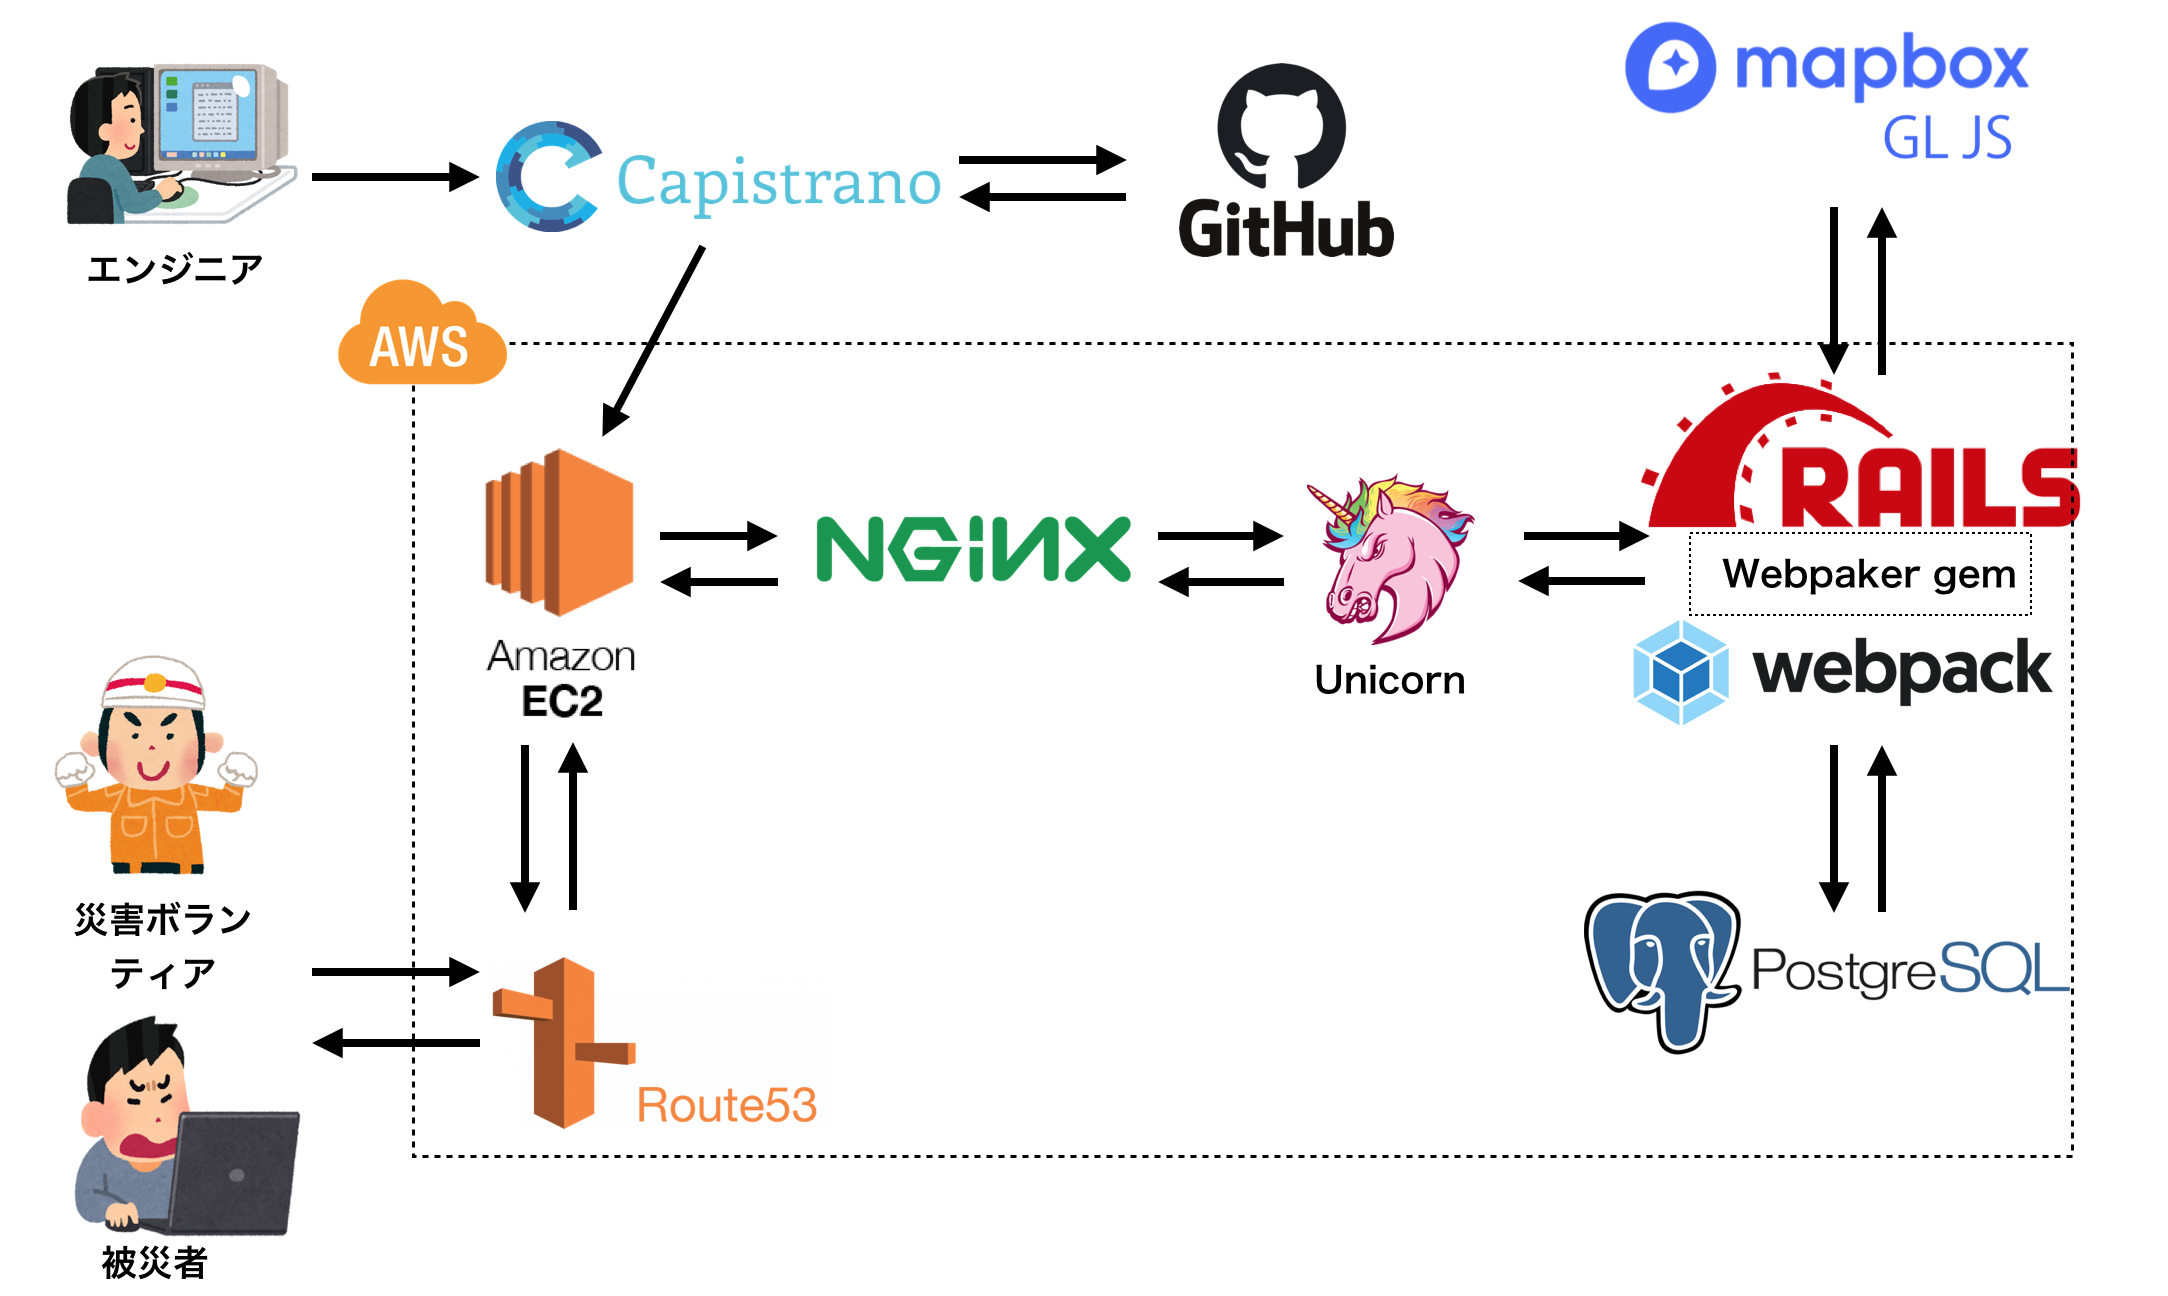
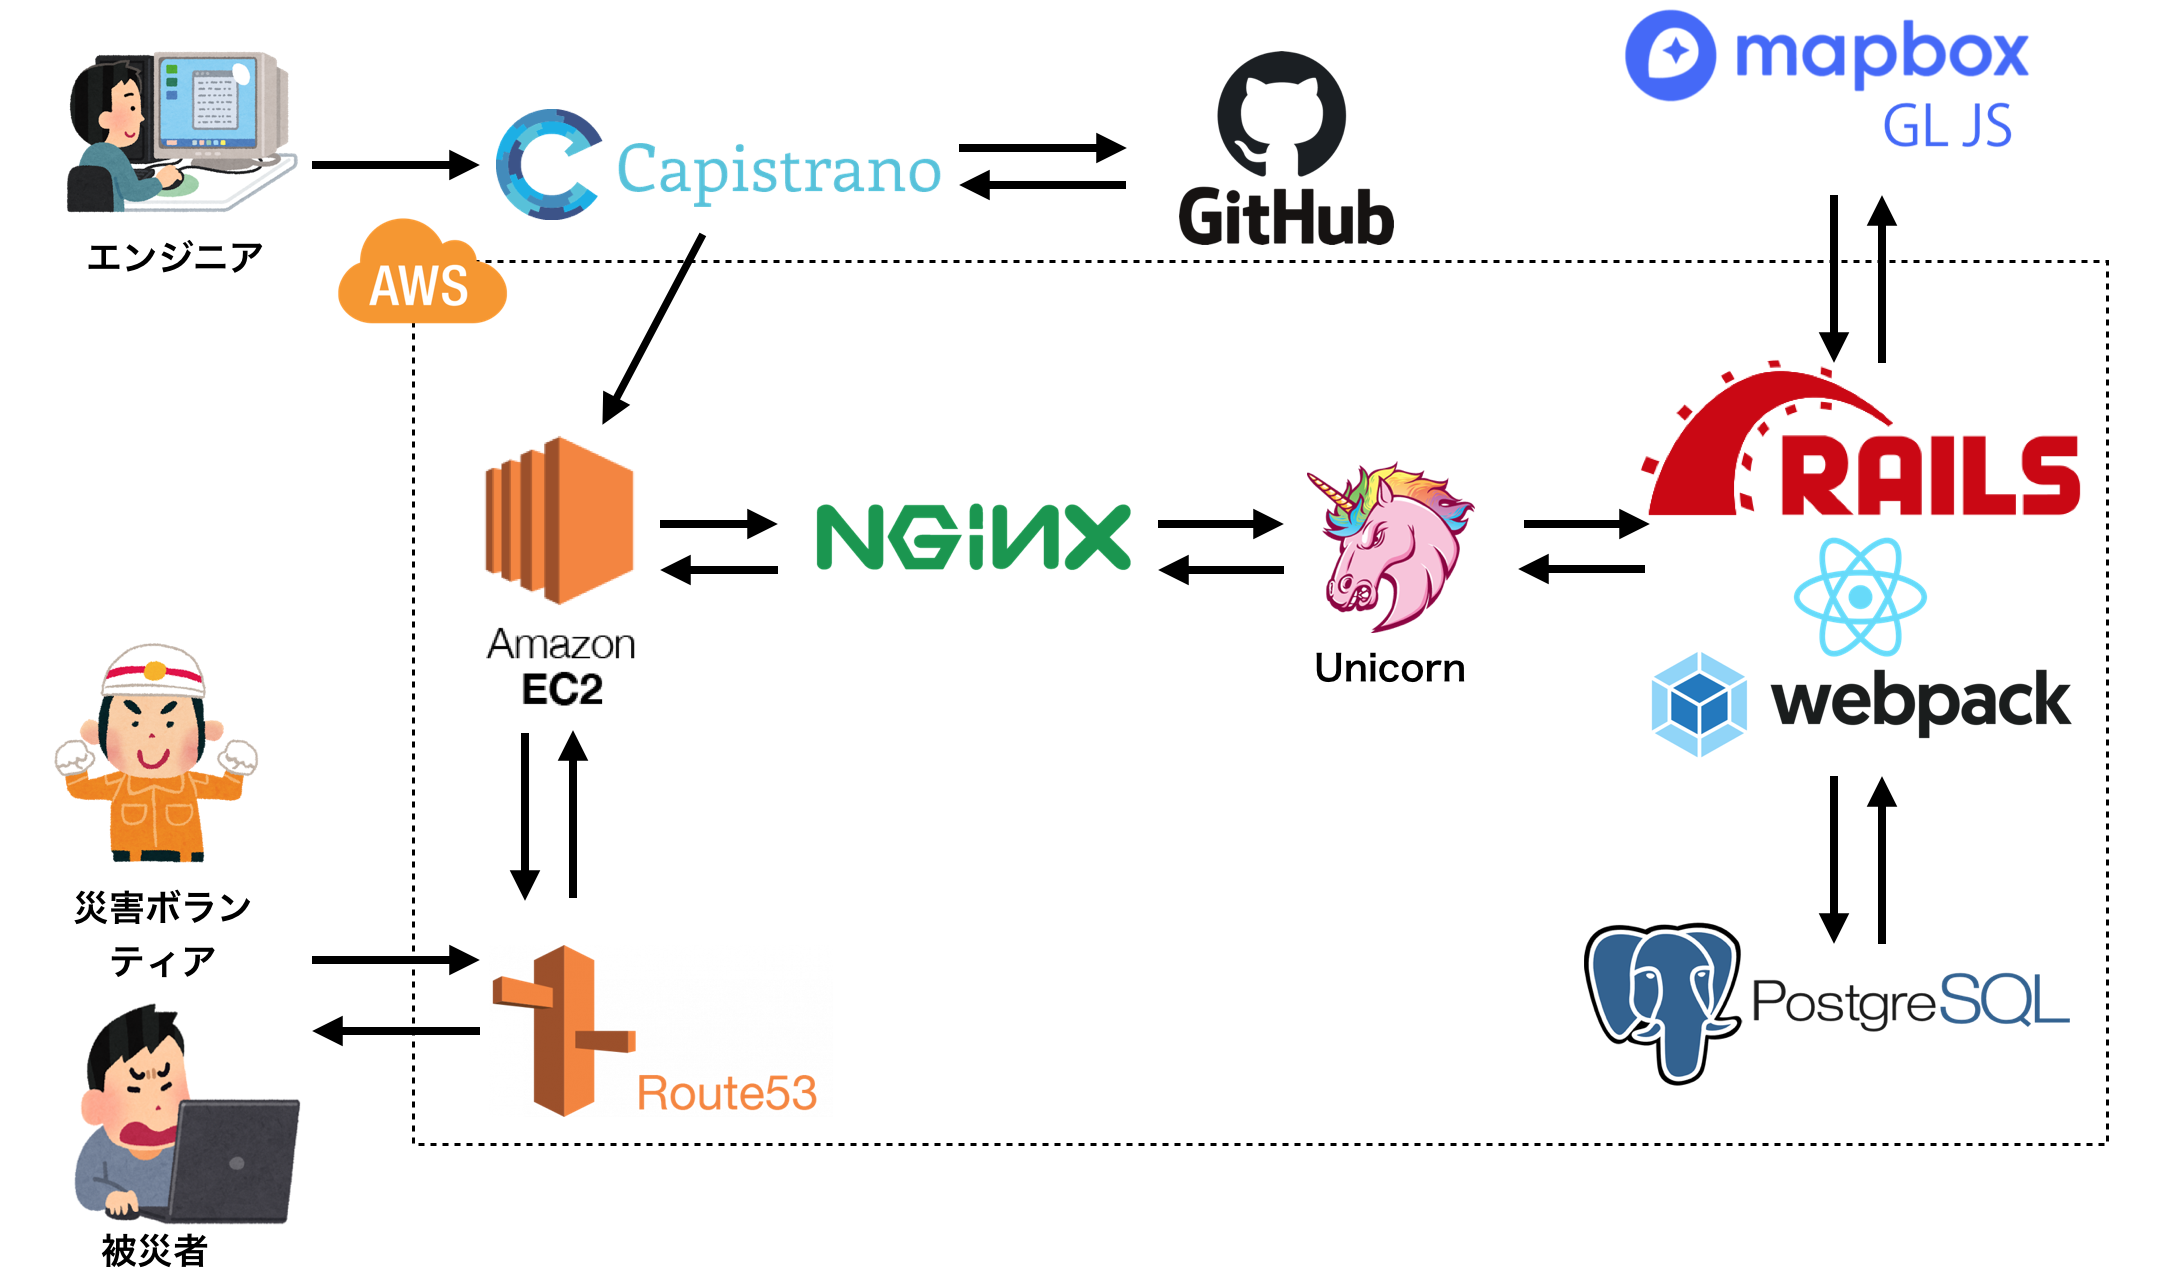
アプリ説明画面実装

diff --git a/app/javascript/plugins/App.js b/app/javascript/plugins/App.js
@@ -1,0 +1,69 @@
+import React, { Component } from "react";
+import Modal from "./Modal.js";
+import picture from "../../../app/assets/images/disaster.png"
+
+class App extends Component {
+  state = {
+    explication: false,
+    };
+
+  closeExplication = e => {
+    this.setState({
+      explication: false,
+    });
+  };
+
+  showExplication = e => {
+    this.setState({
+      explication: true,
+    });
+  };
+
+  render(){
+    return(
+      <div className="container">
+        <div>
+          <span
+            onClick={e => {
+            this.showExplication();
+            }}
+          >
+            <u>Saigai infoとは</u>
+          </span>
+        </div>
+        <Modal
+        explication={
+          this.state.explication
+        }
+        >
+        <div className="modal">
+          <div className="modal-container">
+            <div className="modal-header">
+              <div>
+                <img src={picture} alt="Picture" />;
+              </div>
+            </div>
+            <div className="modal-body">
+              <div>
+                <h4>Saigai infoとは、災害発生時の自治体や民間企業のライフライン支援情報、災害情報などをマップ上で共有するアプリです。<br></br>地図上の任意の地点に選んだアイコンを登録できます。<br></br>登録されたアイコンに情報を加えることができます。<br></br>マップ作成者は災害ボランティアを想定しています。</h4>
+              </div>
+            </div>
+            <div className="modal-footer">
+              <div className="btn-close-container">
+                <button
+                  className="btn-close"
+                  onClick={this.closeExplication}
+                >
+                  閉じる
+                </button>
+              </div>
+            </div>
+          </div>
+        </div>
+        </Modal>
+      </div>
+    );
+  };
+}
+
+export default App;

diff --git a/app/assets/stylesheets/components/_map.scss b/app/assets/stylesheets/components/_map.scss
@@ -327,7 +327,7 @@ transition: 0.5s;
 
   .modal {
     position: fixed;
-    z-index: 10;
+    z-index: 100;
     left: 0;
     top: 0;
     height: 100%;
@@ -336,9 +336,9 @@ transition: 0.5s;
     background-color: rgba(3, 3, 199, 0.5);
   }
   .modal-container {
+    z-index: 15;
     margin: 5% auto;
-    width: 60%;
-    animation-name: modalopen;
+    width: 70%;
     animation-duration: 1s;
     background-color: white;
     display: flex;
@@ -346,18 +346,34 @@ transition: 0.5s;
     justify-content: space-between;
     align-items: center;
     overflow: hidden;
-  }
-  
-  .modal-container h3 {
-    font-size: 1.5rem;
-    color: black;
-    letter-spacing: 4px;
+    border-radius: 8px;
   }
 
-  .main-modal-style {
+  .modal-header {
+    margin-top: 10%;
+    width: 50vw;
+    z-index: 20;
+  }
+
+  .modal-header img {
     width: 100%;
-    display: flex;
-    flex-direction: row;
-    justify-content: center;
-    align-items: center;
+    border-radius: 8px;
+  }
+  
+  .modal-body {
+    width: 50vw;
+    z-index:20;
+    color:black;
+    font-size:1.2rem;
+    background-color:lightpink;
+    padding: 0.2rem;
+    border-radius: 8px;
+  }
+
+  .modal-footer {
+    padding-bottom: 1.2rem;
+  }
+  
+  .btn-close {
+    border: 0;
   }

diff --git a/app/javascript/packs/modal.jsx b/app/javascript/packs/modal.jsx
@@ -1,26 +1,10 @@
-// Run this example by adding <%= javascript_pack_tag 'hello_react' %> to the head of your layout file,
-// like app/views/layouts/application.html.erb. All it does is render <div>Hello React</div> at the bottom
-// of the page.
-
+import App from "../plugins/App.js";
 import React from 'react'
 import ReactDOM from 'react-dom'
-import PropTypes from 'prop-types'
 
-const Hello = props => (
-  <div>Hello {props.name}!</div>
-)
-
-Hello.defaultProps = {
-  name: 'David'
+if(document.querySelector('#explication')){
+ReactDOM.render(
+  <App />,
+document.querySelector('#explication')
+);
 }
-
-Hello.propTypes = {
-  name: PropTypes.string
-}
-
-document.addEventListener('DOMContentLoaded', () => {
-  ReactDOM.render(
-    <Hello name="React" />,
-    document.body.appendChild(document.createElement('div')),
-  )
-})

diff --git a/app/javascript/plugins/Modal.js b/app/javascript/plugins/Modal.js
@@ -1,0 +1,18 @@
+import React, { Component } from "react";
+
+class Modal extends Component {
+  render() {
+    if (!this.props.explication) {
+      return null;
+    }
+
+    return (
+      <div>
+        <div>{this.props.children}
+        </div>
+      </div>
+    );
+  }
+}
+
+export default Modal;

diff --git a/README.md b/README.md
@@ -7,7 +7,7 @@
 アイコンを登録した後は、アイコンに名称をつけコメントを加えることで最新の情報を共有できます。  
 コメントにいいね機能をつけることで情報の信憑性を計ります。  
 マップ作成者が情報を管理しますが、閲覧者も自由にアイコンを登録したり、コメントを書くことができます。  
-マップ作成者はアイコンの削除やコメントの編集・削除ができます。  
+マップ作成者はアイコンの削除やコメントの削除ができます。  
 
 ## バージョン
 ruby version: ruby 2.6.5  
